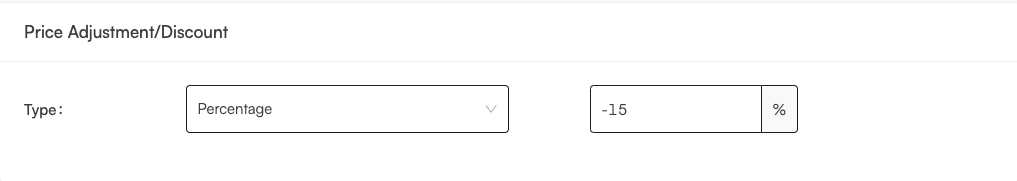
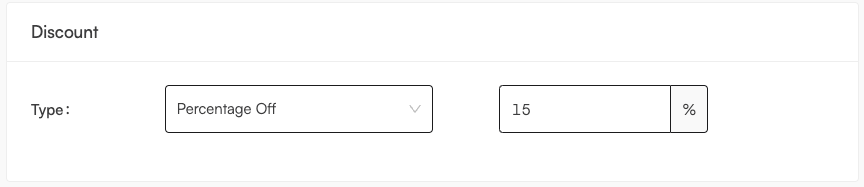
update plan component

diff --git a/docs/plan-management/creating-plans.md b/docs/plan-management/creating-plans.md
@@ -8,7 +8,7 @@ Once you have defined your value [metrics](../metering/creating-metrics.md), it'
 
 ![Plan Creation Page](./assets/create_plan.png)
 
-It might look like a lot, but lets break it down!
+It might look like a lot, but let's break it down!
 
 ## Plan Information
 
@@ -16,34 +16,46 @@ It might look like a lot, but lets break it down!
 
 This section has metadata about your plan, including it's name and description, billing frequency information, and the flat subscription fee any customers on this plan will pay per billing period. One of Lotus' core concepts is [plan versioning](./versioning.md), so keep in mind that when you make new versions of the same plan, the only two things you can't change are the plan name and the plan duration. Everything else is fair game!
 
-Additionally, we know thet you might have existing subscriptions associated with a payment provider (such as [Stripe](../external-integrations/stripe.md)), so we allow you to link this plan to any ID that represents a plan in your payment provider. This is useful for when you want to migrate your existing subscriptions to Lotus.
+Additionally, we know that you might have existing subscriptions associated with a payment provider (such as [Stripe](../external-integrations/stripe.md)), so we allow you to link this plan to any ID that represents a plan in your payment provider. This is useful when you want to migrate your existing subscriptions to Lotus.
 
-For example, in Stripe, [Prices](https://stripe.com/docs/api/prices) and [Products](https://stripe.com/docs/api/products) together specify what you might consider a "plan" in Lotus, so if you had a product with id `prod_MkU7Sl81DXLqyZ` in Stripe, you could link them togetehr by adding it to the `Link External ids` field. No subscriptions will be migrated untilo you insruct us to do so, but this will allow you to keep track of which plans are linked to which external ids.
+For example, in Stripe, [Prices](https://stripe.com/docs/api/prices) and [Products](https://stripe.com/docs/api/products) together specify what you might consider a "plan" in Lotus, so if you had a product with id `prod_MkU7Sl81DXLqyZ` in Stripe, you could link them together by adding it to the `Link External ids` field. No subscriptions will be migrated until you instruct us to do so, but this will allow you to keep track of which plans are linked to which external ids.
 
 ## Plan Components
 
 ![Components Section](./assets/component.png)
 
-Plan components associate billable metrics to your given plan, and include the price you want to charge for them. In the component creation screen, you must choose the metric you want to associate with this component, and decide on two things:
+Plan components associate metrics to your given plan, and include the price you want to charge for them.
 
-- Do you want to charge for this metric? If so, click the "Charge for this metric" toggle. You'll have to specify the number of free units before you start billing, the price per batch, and the units of this metric per batch. In teh example above, we are charging 50 cents per 60 seconds of compute time, with teh first 5 minutes being freee.
+Charges are configured through tiers. This format can represent per unit pricing, packaged pricing, traditional tiered pricing, stair-step pricing, or free pricing.
 
-- Do you want to set a limit on this metric? If so, click the "Does this metric have a limit?" toggle. You'll have to specify the max number of units you want to allow for this metric. In the example above, we are capping this plan at 10,000 seconds of compute time. For more details on how you can track customer usage levels for feature gating, please refer to the [managing feature access](../subscription-lifecycle/managing-access.md) guide.
+In addition since you can set ranges, you can also dictate whether the metric has a limit that the user cannot exceed, which can then be checked in your [frontend](../subscription-lifecycle/managing-access.md)
+
+Each tier can have a different type:
+
+- flat
+- per_unit
+- free
+
+### Tier Ranges
+
+For metrics that are continuous, tier ranges are defined as [start_1,end_1), (start_2, end_2], where the end is not inclusive.
+
+For discrete metics (that follow integers i.e the Count aggregation type), tier ranges can be at most 1 integer apart from each other. An example of this would be a tier that holds the range 0 -> 3 which will include 0, 1, 2, and 3. Then the next range can be 4 -> 100 which will start at 4 and go to 100.
 
 ## Features
 
 ![Features Section](./assets/feature.png)
 
-Plan features are meant to represent boolean features that you want to enable for your customers. For example, you might want to enable a feature like "Advanced Reporting" for a customer on a certain plan. In the feature creation screen, you must either choose the feature you want to associate with this plan, or create a new one. For mroe detail on how you can use plan features to enable or disable certain features in your application, please refer to the [managing feature access](../subscription-lifecycle/managing-access.md) guide.
+Plan features are meant to represent boolean features that you want to enable for your customers. For example, you might want to enable a feature like "Advanced Reporting" for a customer on a certain plan. In the feature creation screen, you must either choose the feature you want to associate with this plan or create a new one. For more detail on how you can use plan features to enable or disable certain features in your application, please refer to the [managing feature access](../subscription-lifecycle/managing-access.md) guide.
 
-## Price Adjustments
+## Discounts and Price Adjustments
 
 ![Price Adjustments Section](./assets/price_adjustments.png)
 
 Price adjustments give you the flexibility to easily represent business events such as sales, negotiated prices with large enterprises, or discounts for early adopters. In the price adjustment creation screen, you must choose the type of price adjustment you want to create, and then specify the amount of the adjustment. Currently, we support the following types of price adjustments, all at the plan level (coming to the component level soon!):
 
-- **Percentage**: This is a percentage discount or surcharge that will be applied to the total price of the plan. For example, if you want to give a 10% discount to all customers on this plan, you would specify a percentage of -10.
+- **Percentage**: This is a percentage discount or surcharge that will be applied to the total price of the plan. For example, if you want to give a 10% off discount to all customers on this plan, you would specify a percentage of 10.
 
-- **Fixed Amount**: This is a flat discount or surcharge that will be applied to the total price of the plan. For example, if you want to give a $200 discount to all customers on this plan, you would specify a flat amount of -200. Keep in mind flat discounts will never give a credit to a customer, and will simply make the invoice 0.
+- **Fixed Amount**: This is a flat discount or surcharge that will be applied to the total price of the plan. For example, if you want to give a $200 discount to all customers on this plan, you would specify a flat amount of 200. Keep in mind flat discounts will never give a credit to a customer, and will simply make the invoice 0.
 
-- **Price Overwrite**: This is a fixed price that will be applied to the total price of the plan. For example, if you negotiated a contract worth $3,000 with a large enterprise customer, you could overwrite the usage based charges and charge them a flat fee instead.
+- **Price Overwrite**: This is a fixed price that will be applied to the total price of the plan. For example, if you negotiated a contract worth $3,000 with a large enterprise customer, you could overwrite the usage-based charges and charge them a flat fee instead.
